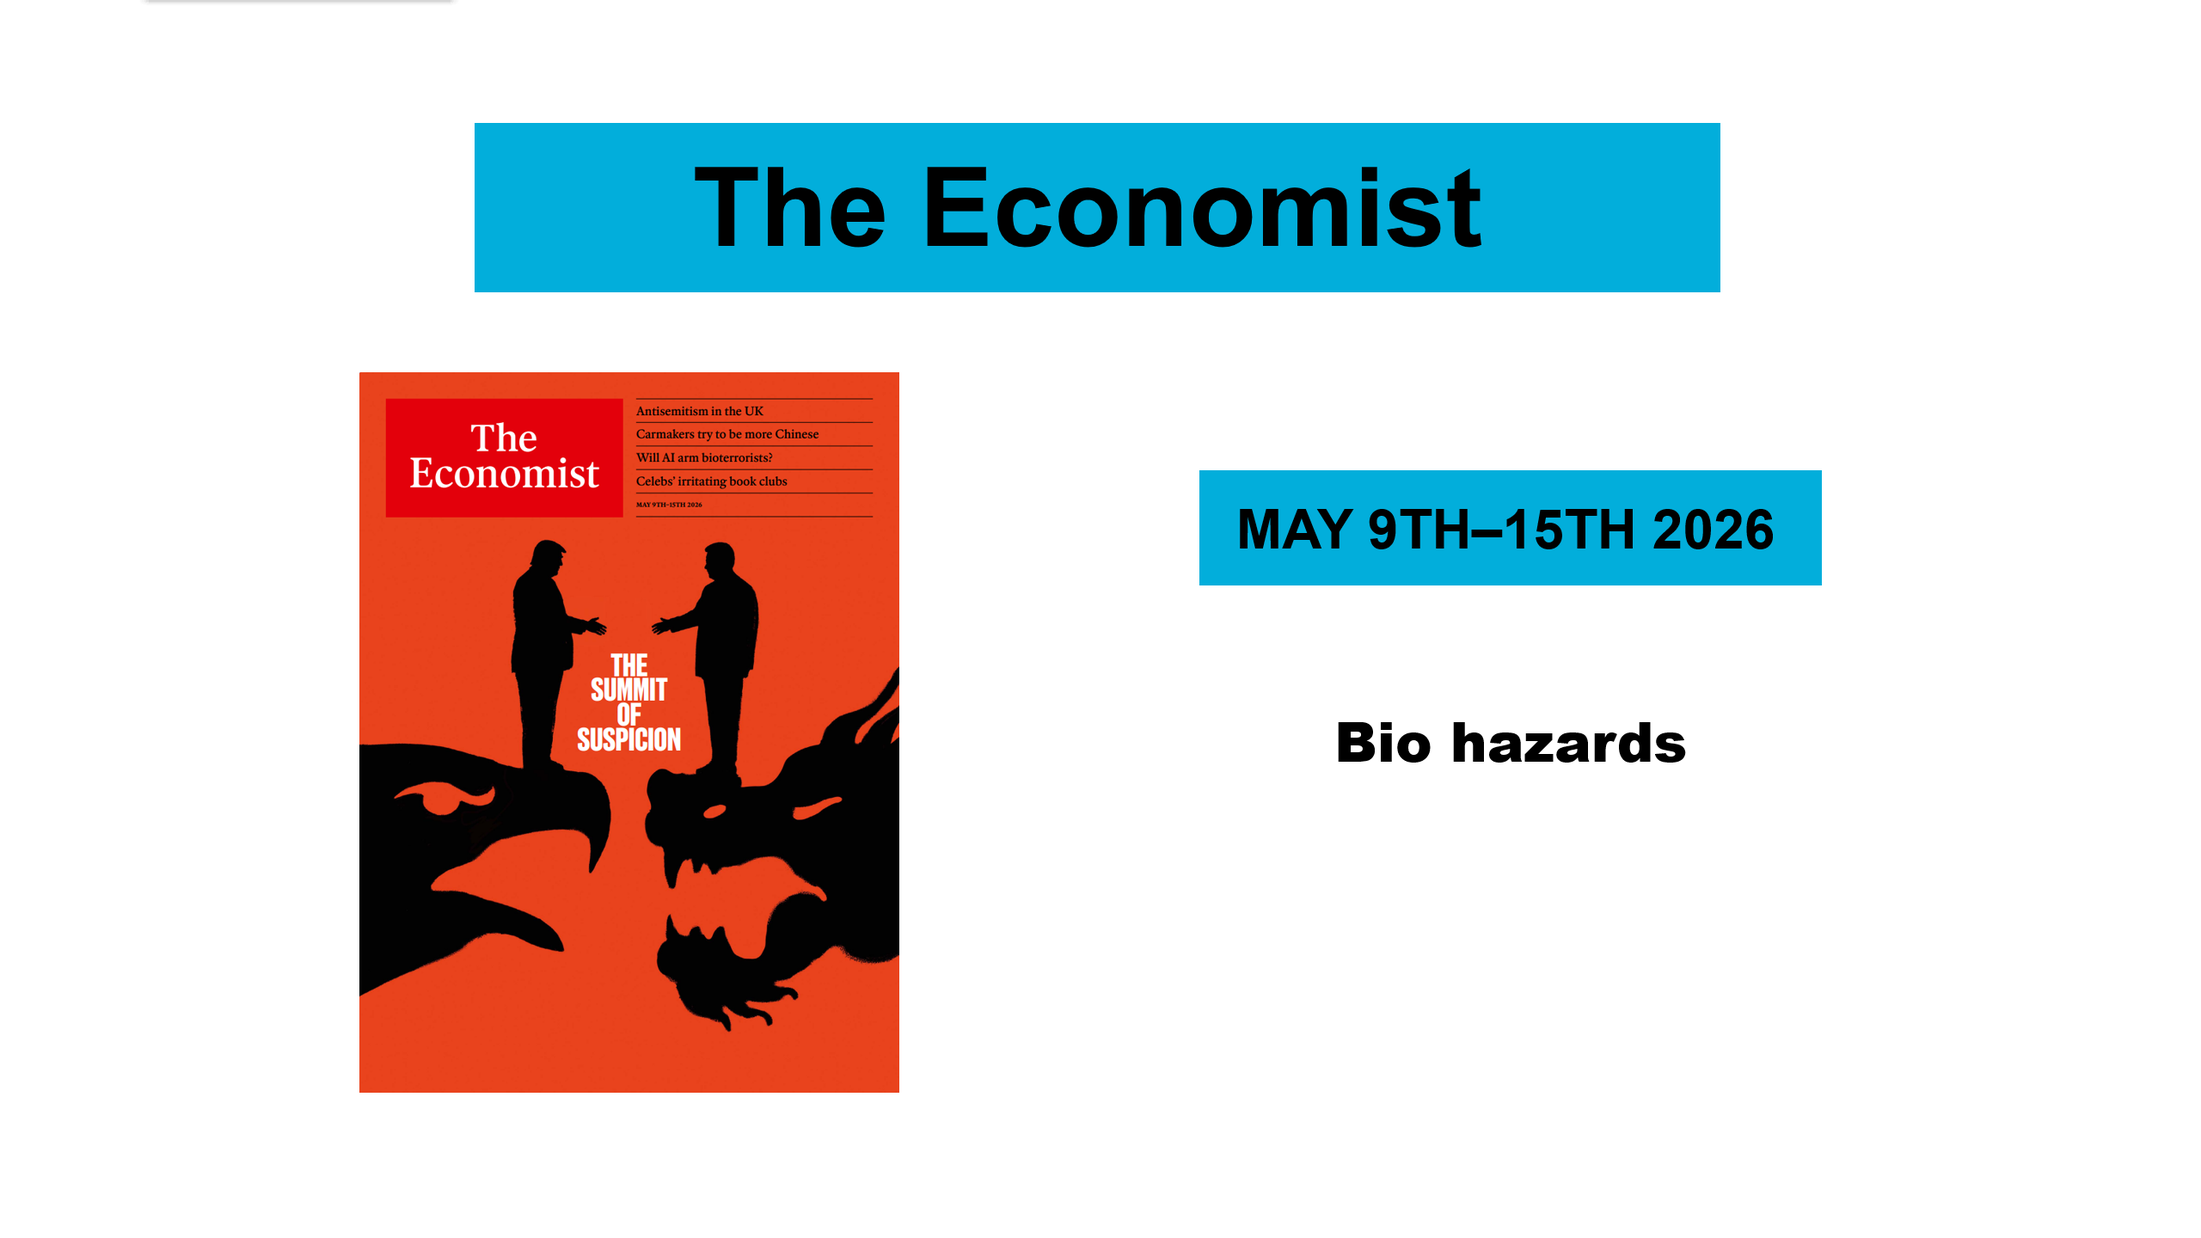
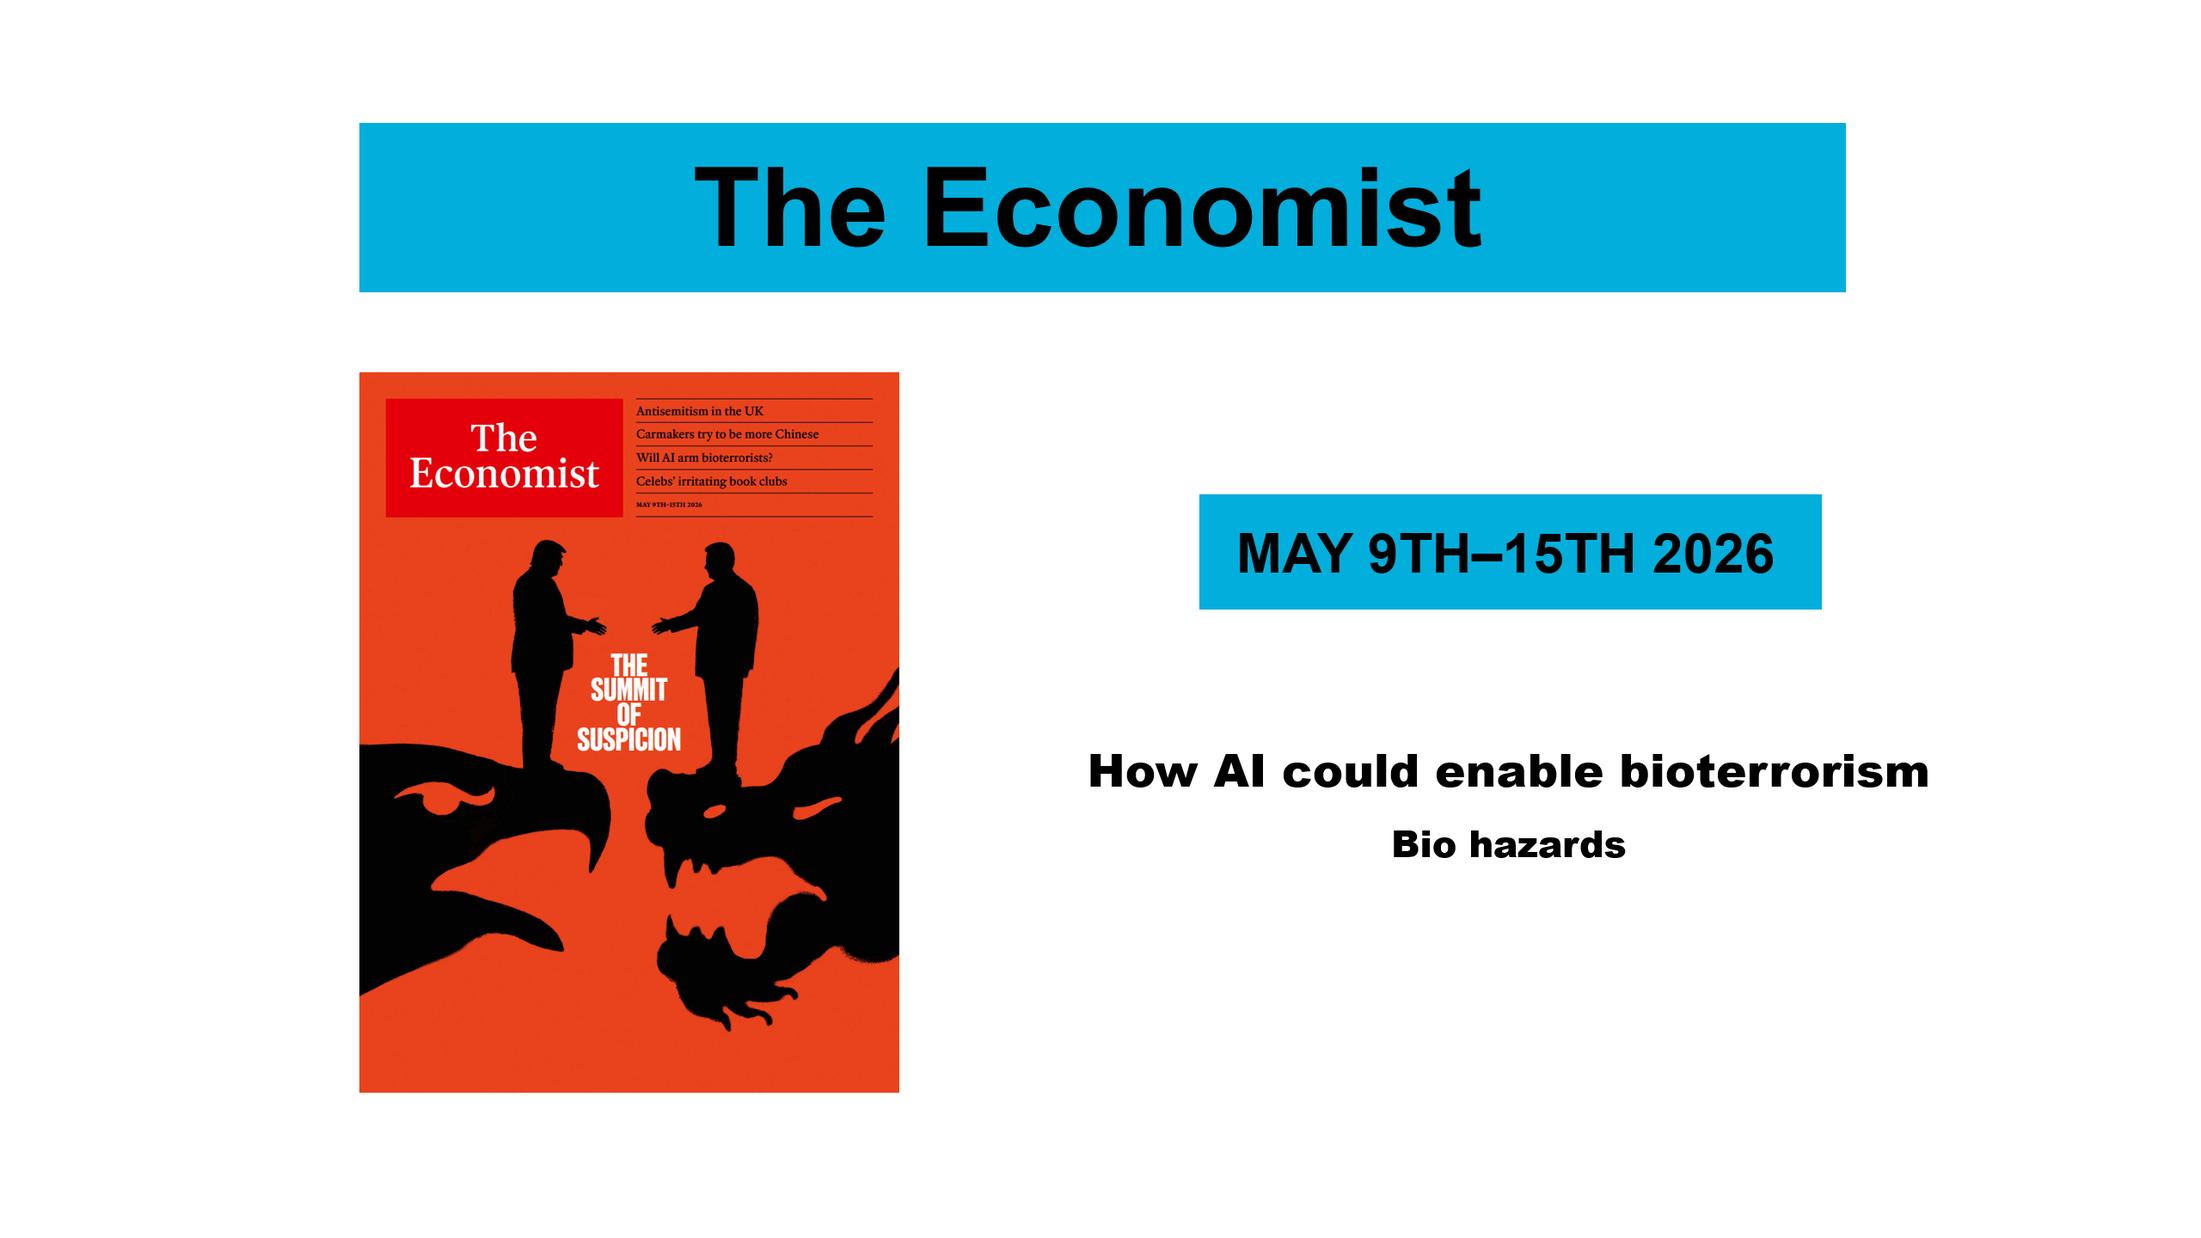
u eco

diff --git a/src/content/posts/期刊/Economist/2026-05-(09-15)/Almost-protein/index.md b/src/content/posts/期刊/Economist/2026-05-(09-15)/Almost-protein/index.md
@@ -1,0 +1,78 @@
+---
+title: "[The Economist, May 9th–15th, 2026] Proteins' little cousins: Almost proteins"
+published: 2026-05-16 08:00:00
+tags: [期刊]
+category: Journal
+image: "./cover.png"
+description: "蛋白近亲：类蛋白物质"
+---
+
+<p style="margin:0!important;text-indent:0!important;font-family: 'Gulliver' !important;"><span style="color:#e3000f;font-weight:bold;padding:0 4px;user-select:none;">Peptideins</span></p>
+
+<audio controls> 
+    <source src="https://audio.taffybook.cn/Economist/2026-05/078%20Science%20and%20technology%20-%20Peptideins.mp3"> 
+</audio>
+
+<span style="margin:30px 0 0 0!important; font-family: Gulliver; display:block; text-align:left;">
+<strong>A newly proposed class of molecules could shake up cell biology</strong>
+</span>
+
+<span style="font-family: Gulliver;">IN SCIENCE, WHETHER an anomaly is insignificant or the basis for a promising new field of study can <mark style="background:rgba(136, 49, 204, 0.2)">boil down to</mark>[^1] the catchiness of its name. Pick the wrong one, and conferences are hard to organise and funding <mark style="background:#fdbfff">shrivels</mark>[^2] up. But pick the right one, and the publicity takes care of itself.</span>
+
+<font color="#548dd4">在科学界，一种异常现象究竟是无足轻重，还是有望开辟全新研究领域，往往取决于其命名是否吸睛。名字取得差劲，不仅难以举办学术会议，科研经费也会日渐枯竭；倘若命名巧妙，热度与关注度自然随之而来。</font>
+
+<span style="font-family: Gulliver;">In that spirit, say hello to peptideins: a newly named class of molecules found within human cells that are similar to proteins but smaller and with vaguer purposes. As the authors of the paper that named them, published in the journal *Nature* this week, point out, they may still be important. Sebastiaan van Heesch, a protein specialist at the Princess Máxima Centre in the Netherlands who co-led the new study, has said that peptideins might “unlock new insights and drug targets across human biology”, potentially assisting with the development of immunotherapies and vaccines against cancer. What is certain for now is that they complicate the conventional picture of how cells work.</span>
+
+<font color="#548dd4">秉持这一思路，来认识肽质：这是一类新近定名、存在于人体细胞内的分子，结构近似蛋白质，但体型更小，功能作用也尚不明确。本周刊发于《自然》期刊的相关定名论文指出，这类分子依旧具备重要研究价值。荷兰玛克西玛公主中心的蛋白质领域专家、该研究联合负责人塞巴斯蒂安・范赫施表示，肽素分子有望助力人类生物学领域挖掘全新研究思路与药物作用靶点，或能推动癌症免疫疗法与抗癌疫苗的研发进程。目前可以确定的是，它们打破了人们对细胞运作机制的传统认知。</font>
+
+<span style="font-family: Gulliver;">Simply put, enzymes within a cell are thought to copy strands of DNA into molecules of RNA. These in turn are used as blueprints to make chains of amino acids known as peptides. (This second process, known as translation, is largely handled by cellular components called ribosomes.) Proteins are a loosely defined subset of peptides: those that are of a certain size; have a known function; and can be found across several species.</span>
+
+<font color="#548dd4">简单来说，细胞内的酶会将</font> $\textcolor{#548dd4}{\text{DNA}}$ <font color="#548dd4">链转录为</font> $\textcolor{#548dd4}{\text{RNA}}$ <font color="#548dd4">分子，</font>$\textcolor{#548dd4}{\text{RNA}}$ <font color="#548dd4">再作为模板合成氨基酸链，也就是肽链。这第二步过程即翻译，主要由细胞内的核糖体完成。蛋白质属于肽类里界定较宽泛的一类：需达到特定长度、具备明确功能，且在多个物种中普遍存在。</font>
+
+<span style="font-family: Gulliver;">There are about 19,500 recognised human proteins, each of which shares its name with its functional gene—the stretch of DNA responsible for making it. Many are important. The p53 protein responds to DNA damage and either pauses cell growth and division or triggers cell death as a way to suppress cancer. Insulin, a hormone, is a protein that regulates blood sugar by instructing cells to absorb glucose.</span>
+
+<font color="#548dd4">目前已确认的人类蛋白质约有</font> $\textcolor{#548dd4}{19500}$ <font color="#548dd4">种，每种蛋白都与其功能基因同名，这类基因即是负责合成对应蛋白质的</font> $\textcolor{#548dd4}{\text{DNA}}$ <font color="#548dd4">片段。其中诸多蛋白作用关键。</font>$\textcolor{#548dd4}{\text{p}53}$ <font color="#548dd4">蛋白可感知</font> $\textcolor{#548dd4}{\text{DNA}}$ <font color="#548dd4">损伤，或暂停细胞增殖分裂，或启动细胞凋亡，以此抑制癌变；激素胰岛素同样属于蛋白质，它能指令细胞摄取葡萄糖，从而调节血糖水平。</font>
+
+<span style="font-family: Gulliver;">For years cell biologists focused on the bits of the genome that were known to code for the proteins, with the rest dismissed as junk. But better experimental tools have revealed cracks in this simple picture and shown that DNA has valuable functions beyond protein manufacture.</span>
+
+<font color="#548dd4">多年来，细胞生物学家只专注于基因组中已知编码蛋白质的片段，其余序列都被视作无用的垃圾</font> $\textcolor{#548dd4}{\text{DNA}}$<font color="#548dd4">。而如今更先进的实验手段推翻了这一简易认知，证实</font> $\textcolor{#548dd4}{\text{DNA}}$ <font color="#548dd4">除合成蛋白质外，还具备诸多重要功能。</font>
+
+<span style="font-family: Gulliver;">A technique known as ribosome profiling, for example, which can reveal the precise spot on an RNA strand where translation is under way, allowed researchers to map exactly where the cell’s protein-making machinery is active. It revealed that translation might be happening in genome regions far from known genes. At the same time, increasingly sensitive mass spectrometry experiments allowed for ever smaller molecules to be spotted in cell samples. Together, these techniques shifted the focus towards sections of DNA capable of making molecules that look like miniature proteins.</span>
+
+<font color="#548dd4">例如核糖体图谱分析技术，能够精准定位</font> $\textcolor{#548dd4}{\text{RNA}}$ <font color="#548dd4">链上正在进行翻译的位点，助力研究者精确定位细胞蛋白合成机制的活跃区域。该技术发现，翻译活动可发生在远离已知基因的基因组区段。与此同时，精度不断提升的质谱分析，也让科研人员能在细胞样本中检出体量愈发微小的分子。两类技术结合，让研究重心转向了可合成类微型蛋白分子的</font> $\textcolor{#548dd4}{\text{DNA}}$ <font color="#548dd4">片段。</font>
+
+<span style="font-family: Gulliver;">The dark proteome, as this collection of “microproteins” is known, has <mark style="background:#fdbfff">befuddled</mark>[^3] scientists even as it has grown. Though they were once dismissed as unworthy of attention, recent studies have suggested that microproteins could be concealing drivers of disease. They could be fruitful targets for future drugs to aim at.</span>
+
+<font color="#548dd4">这类微型蛋白统称暗蛋白质组，其数量不断增多，也一直令科学家倍感困惑。它们从前被视作无关紧要、无人深究，而近期研究表明，微型蛋白或许暗藏致病关键因子，也有望成为未来药物研发极具潜力的作用靶点。</font>
+
+<span style="font-family: Gulliver;">Dr van Heesch and his colleagues have produced the most detailed map of this dark proteome thus far. By pooling and analysing the results of previous experiments they confirmed the existence of 1,785 microproteins. Their paper reveals just how small some of these are: about 65 per cent of known microproteins held fewer than 50 amino acids. That is smaller than over 99 per cent of the 19,500 known proteins.</span>
+
+<font color="#548dd4">范赫施博士及其团队绘制出了迄今为止最详尽的暗蛋白质组图谱。他们整合分析过往实验数据，证实了</font> $\textcolor{#548dd4}{1785}$ <font color="#548dd4">种微型蛋白真实存在。该论文还揭示了这类分子的体型极小：已知微型蛋白中约</font> $\textcolor{#548dd4}{65\%}$ <font color="#548dd4">的氨基酸数量不足</font> $\textcolor{#548dd4}{50}$ <font color="#548dd4">个，远少于</font> $\textcolor{#548dd4}{19500}$ <font color="#548dd4">种已知常规蛋白质里</font> $\textcolor{#548dd4}{99\%}$ <font color="#548dd4">的蛋白长度。</font>
+
+<span style="font-family: Gulliver;">Some well-studied microproteins are already known to be biologically useful. One, called ASNSD1-uORF, is involved in the progression of the childhood brain cancer medulloblastoma. Another, humanin, protects cells from stress and may play a role in healthy ageing as well as the onset of neurodegenerative diseases.</span>
+
+<font color="#548dd4">部分研究较为透彻的微型蛋白，现已证实具备生理功能。其中名为</font> $\textcolor{#548dd4}{\text{ASNSD1-uORF}}$ <font color="#548dd4">的微型蛋白，与儿童脑部肿瘤髓母细胞瘤的病情进展相关；还有护脑素，可保护细胞抵御应激损伤，既有助于机体健康衰老，也和神经退行性疾病的发病息息相关。</font>
+
+<span style="font-family: Gulliver;">The vast majority of discovered microproteins, however, have not been linked to any concrete biological effects. It is this group that Dr van Heesch and his colleagues have dubbed the peptideins. By formalising them in this way, the researchers want to encourage the researchers who compile protein databases to study them as well as to take their possible roles in health and disease more seriously.</span>
+
+<font color="#548dd4">然而绝大多数已发现的微型蛋白，尚未明确具备具体生理作用。范赫施团队便将这类分子正式命名为肽质。研究者此番定名归类，意在推动蛋白数据库整理人员重视这类物质，同时促使学界深入探究其在健康与疾病中潜在的生理作用。</font>
+
+<span style="font-family: Gulliver;">Many of the peptideins confirmed so far suggest this approach may have value. Some are expressed and displayed on the outside of tumour cells, for example, which could allow them to be recognised by the body’s immune system. These could offer new targets to help immunotherapy drugs locate and remove such cancerous cells. It is also possible, the researchers suggest, that peptideins might regulate the activity of other genes or influence cell signalling.</span>
+
+<font color="#548dd4">目前已确认的诸多肽素，印证了这一研究方向极具价值。例如部分肽素会在肿瘤细胞表面表达显现，能被人体免疫系统识别，有望成为全新靶点，助力免疫治疗药物精准定位并清除癌细胞。研究人员还提出，肽素或可调控其他基因活性，亦能参与调控细胞信号传导。</font>
+
+<span style="font-family: Gulliver;">Just how many peptideins there are remains an open question. Some experts warn that ribosome profiling is prone to flagging false positives—what looks like translation occurring at a surprising site, in other words, may be little more than an illusion. Indeed, this week’s paper identifies thousands of possible peptidein sightings that could not be confirmed, though future search methods may be better equipped to do so. Many peptideins may also turn out to be <mark style="background:rgba(136, 49, 204, 0.2)">damp squibs</mark>[^4]. For David Tollervey, a cell biologist at the University of Edinburgh, it is unlikely that more than a few hundred prove useful.</span>
+
+<font color="#548dd4">肽素的实际总数目前尚无定论。部分专家提醒，核糖体图谱分析容易出现假阳性结果，也就是说，那些看似发生在特殊位点的翻译活动，或许只是观测假象。此次发表的论文确实筛查出数千个疑似肽素位点，但均未能证实，不过未来的检测技术或将完成验证。不少肽素最终也可能被证实并无实际作用。爱丁堡大学细胞生物学家戴维・托勒维便认为，最终真正具备研究价值的肽素，大概率仅有数百种。</font>
+
+<span style="font-family: Gulliver;">A better understanding of peptideins will determine whether or not the name catches on. If they prove to be largely unimportant, it may soon be forgotten. But if studying them pays off, prepare to hear the name a lot more.</span>
+
+<font color="#548dd4">对肽素的研究深入程度，将决定这一名称能否广为流传。倘若最终证实其大多无实际价值，这个名词很快便会被人淡忘；可一旦相关研究取得重大成果，日后我们便会频繁听到这个叫法。</font>
+
+[^1]: <span style="font-family: Gulliver;">**boil down to**</span>：归结于
+
+[^2]: <span style="font-family: Gulliver;">**shrivel** /ˈʃrɪvl/: to become smaller and weaker, or less in amount</span>
+
+[^3]: <span style="font-family: Gulliver;">**befuddle** /bɪˈfʌdl/: v. to confuse someone greatly</span>
+
+[^4]: <span style="font-family: Gulliver;">**damp squib**</span>：受潮的爆竹，喻预期中精彩但实际平淡或失败的事件

diff --git a/src/content/posts/S-index.md b/src/content/posts/S-index.md
@@ -4,11 +4,11 @@ published: 1970-01-01 00:00:00
 category: Other
 pinned: true
 ---
-<div style="overflow-x: auto; width: 100%;">
-	<table style="border-collapse: collapse;">
+<div style="max-width: 800px; margin: 0 auto;">
+	<table style="border-collapse: collapse; width: 100%; table-layout: fixed;">
 		<tr> 
-			<th style="text-align: center; border: 1px solid #000;">pub_name</th> 
-			<th style="text-align: center; border: 1px solid #000;">chap_name</th>
+			<th style="width: 35%; text-align: center; border: 1px solid #000;">pub_name</th> 
+			<th style="width: 65%; text-align: center; border: 1px solid #000;">chap_name</th>
 		</tr> 
 		<tr> 
 			<td rowspan="9" style="text-align:center; vertical-align:middle; background:#f8e411; border: 1px solid #000;">Campbell's Biology</td>
@@ -39,11 +39,11 @@ pinned: true
 			<td style="border: 1px solid #000;"><a href="/posts/biology/campbell/campbell_ch9/">Chapter 9</a></td>
 		</tr> 
 		<tr> 
-			<td rowspan="1" style="text-align:center; vertical-align:middle; background:#f8e411; border: 1px solid #000;">Stern's Introductory Plant Biology</td>
-			<td style="border: 1px solid #000;"><a href="/posts/biology/stern-botany/ch1/">Chapter 1</a></td>
+			<td rowspan="1" style="text-align:center; vertical-align:middle; background:#f8e411; border: 1px solid #000;">Stern's Introductory <br> Plant Biology</td>
+			<td style="border: 1px solid #000; vertical-align:middle;"><a href="/posts/biology/stern-botany/ch1/">Chapter 1</a></td>
 		</tr> 
 		<tr> 
-			<td rowspan="10" style="text-align:center; vertical-align:middle; background:#02aedb; border: 1px solid #000;">Scientific American (May, 2026)</td>
+			<td rowspan="10" style="text-align:center; vertical-align:middle; background:#02aedb; border: 1px solid #000;">Scientific American <br> (May, 2026)</td>
 			<td style="border: 1px solid #000;"><a href="/posts/期刊/sciam/2026-05/an-icy-ear/">An Icy Ear</a></td>
 		</tr> 
 		<tr> 
@@ -74,8 +74,11 @@ pinned: true
 			<td style="border: 1px solid #000;"><a href="/posts/期刊/sciam/2026-05/upright-heart/">Upright Heart</a></td>
 		</tr>
 		<tr> 
-			<td rowspan="1" style="text-align:center; vertical-align:middle; background:#02aedb; border: 1px solid #000;">The Economist (May 9th–15th, 2026)</td>
-			<td style="border: 1px solid #000;"><a href="/posts/期刊/economist/2026-05-09-15/biohazard/">Bio Hazards</a></td>
+			<td rowspan="2" style="text-align:center; vertical-align:middle; background:#02aedb; border: 1px solid #000;">The Economist <br> (May 9th–15th, 2026)</td>
+			<td style="border: 1px solid #000; vertical-align:middle;"><a href="/posts/期刊/economist/2026-05-09-15/almost-protein/">Almost proteins</a></td>
+		</tr> 
+		<tr> 
+			<td style="border: 1px solid #000; vertical-align:middle;"><a href="/posts/期刊/economist/2026-05-09-15/biohazard/">Bio hazards</a></td>
 		</tr> 
 	</table>
 </div>

diff --git a/src/content/posts/期刊/Economist/2026-05-(09-15)/Biohazard/index.md b/src/content/posts/期刊/Economist/2026-05-(09-15)/Biohazard/index.md
@@ -1,10 +1,10 @@
 ---
-title: "[The Economist, May 9th–15th, 2026] Bio Hazards "
+title: "[The Economist, May 9th–15th, 2026] How AI could enable bioterrorism: Bio hazards "
 published: 2026-05-14
 tags: [期刊]
 category: Journal
 image: "./images/cover.png"
-description: "生化危机"
+description: "AI如何助长生物恐怖主义：生物危害"
 ---
 
 <p style="margin:0!important;text-indent:0!important;font-family: 'Gulliver' !important;"><span style="color:#e3000f;font-weight:bold;padding:0 4px;user-select:none;">Artificial intelligence</span></p>
